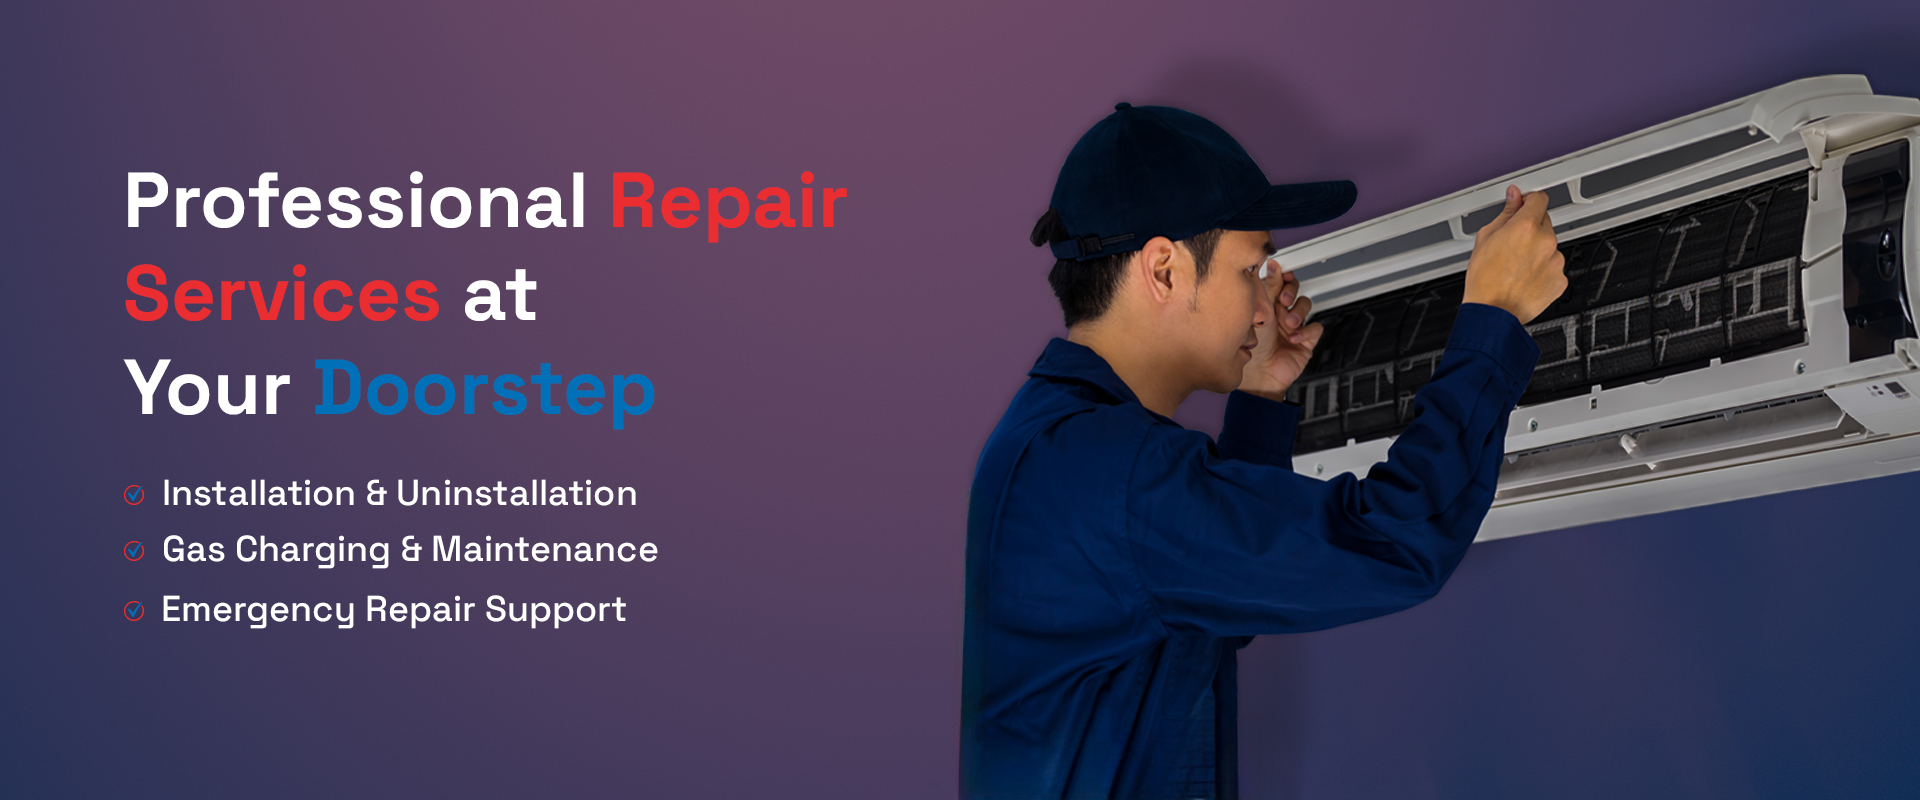
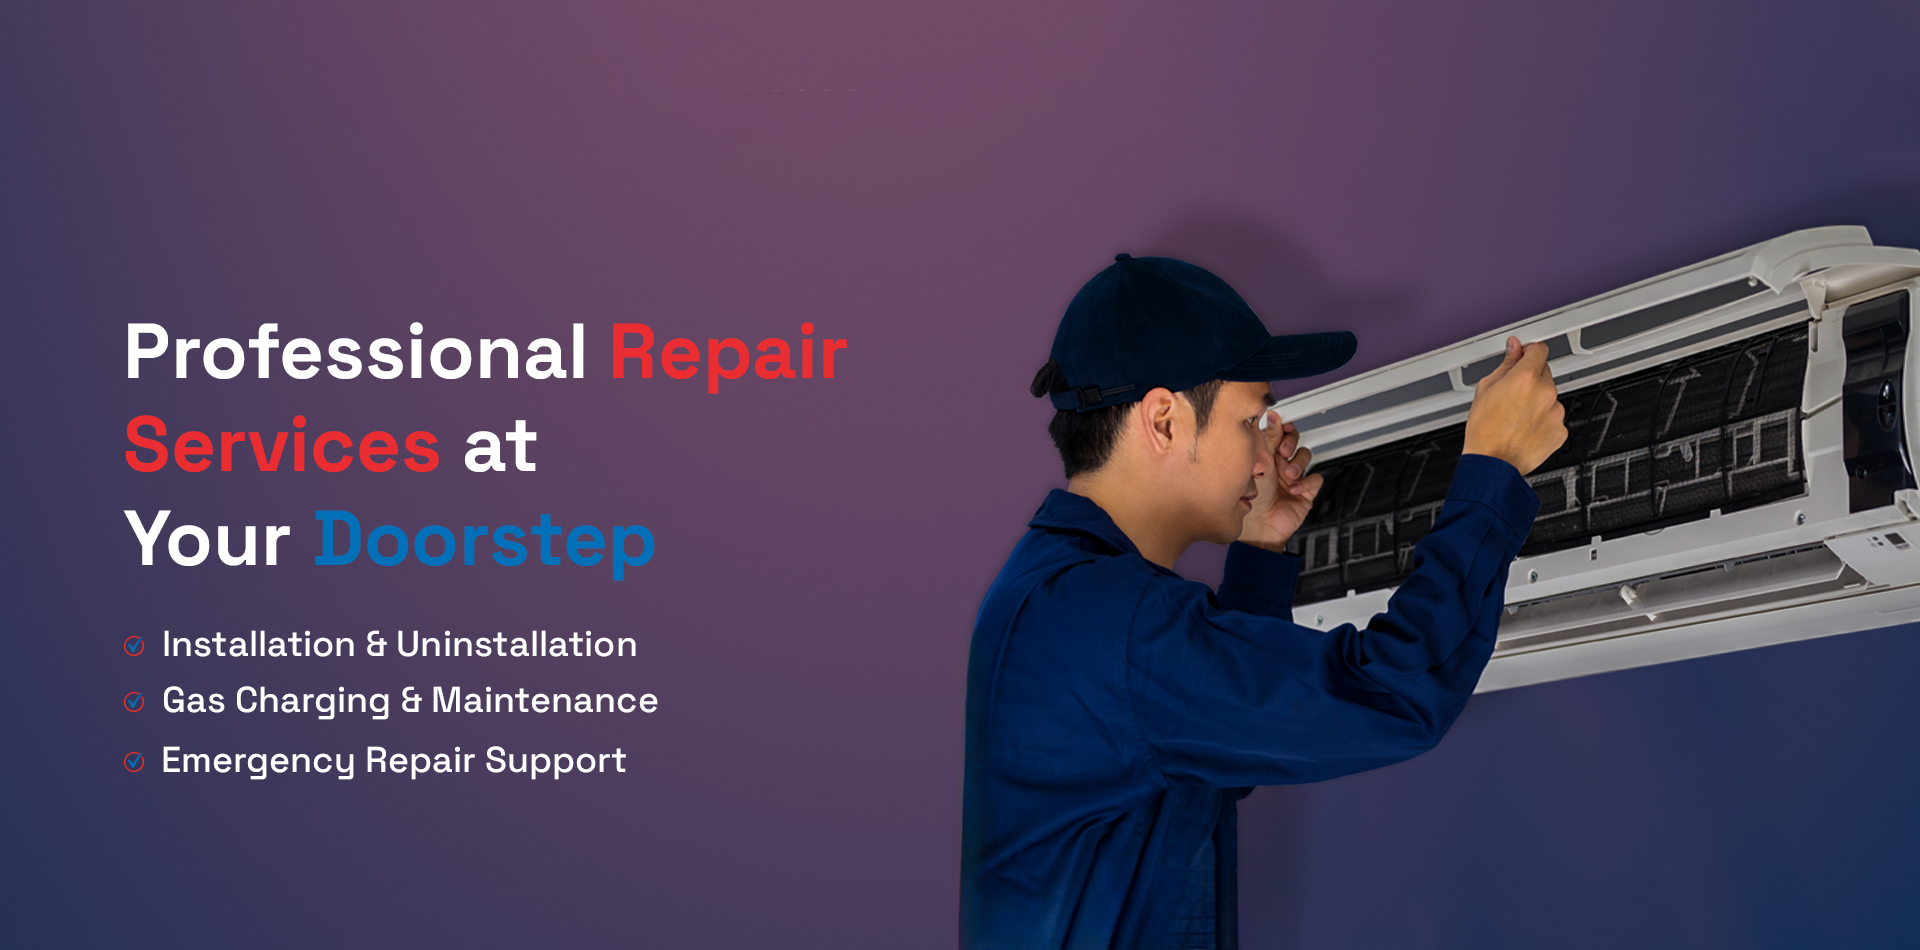
changes

diff --git a/index.html b/index.html
@@ -18,7 +18,7 @@
   <body>
 <!-- ===== TOP BAR ===== -->
 
-  <header>
+  <!-- <header>
         <div class="top-bar py-2">
             <div class="container-xl row mx-auto align-items-center a">
                 <div class="col-md-8 col-sm-12">
@@ -64,20 +64,55 @@
 
             </div>
         </nav>
-    </header>
+    </header> -->
+    <header class="position-absolute w-100 mt-3">
+  <nav class="navbar navbar-expand-lg bg-white rounded-4 shadow mx-auto px-4 py-3 header-nav">
+    
+    <!-- Logo -->
+    <a class="navbar-brand d-flex align-items-center" href="#">
+      <img src="image/logo.png" alt="heat" height="45" class="logo-img">
+    </a>
+
+    <!-- Mobile Toggle -->
+    <button class="navbar-toggler" type="button" data-bs-toggle="collapse"
+      data-bs-target="#mainNav" aria-controls="mainNav" aria-expanded="false">
+      <span class="navbar-toggler-icon"></span>
+    </button>
+
+    <!-- Nav Links -->
+    <div class="collapse navbar-collapse justify-content-center" id="mainNav">
+      <ul class="navbar-nav mb-2 mb-lg-0 gap-lg-4">
+        <li class="nav-item"><a class="nav-link" href="/">Home</a></li>
+        <li class="nav-item"><a class="nav-link" href="#about">About Us</a></li>
+        <li class="nav-item"><a class="nav-link" href="#services">Our Services</a></li>
+        <li class="nav-item"><a class="nav-link" href="#why-choose">Why Choose Us</a></li>
+        <li class="nav-item"><a class="nav-link" href="#contact">Contact</a></li>     
+      </ul>
+    </div>
+
+    <!-- Right buttons -->
+    <div class="d-flex align-items-center gap-3">      
+      <button type="button" class="btn btn-danger rounded-pill" data-bs-toggle="modal" data-bs-target="#exampleModal"> Get In Touch
+</button>
+
+    </div>
+
+  </nav>
+</header>
+
 
 <div id="carouselExampleIndicators" class="carousel slide">
   <div class="carousel-indicators">
     <button type="button" data-bs-target="#carouselExampleIndicators" data-bs-slide-to="0" class="active" aria-current="true" aria-label="Slide 1"></button>
     <button type="button" data-bs-target="#carouselExampleIndicators" data-bs-slide-to="1" aria-label="Slide 2"></button>
-    <button type="button" data-bs-target="#carouselExampleIndicators" data-bs-slide-to="2" aria-label="Slide 3"></button>
+   
   </div>
   <div class="carousel-inner">
     <div class="carousel-item active">
       <img src="image/Banner.jpg" class="d-block w-100" alt="...">
     </div>
     <div class="carousel-item">
-      <img src="image/Banner.jpg" class="d-block w-100" alt="...">
+      <img src="image/Banner-1.jpg" class="d-block w-100" alt="...">
     </div>
     <!-- <div class="carousel-item">
       <img src="..." class="d-block w-100" alt="...">
@@ -678,7 +713,7 @@ Katepwa Lake, Pasqua, Lipton, Dysart, Balcarres, Standing Buffalo &amp; surround
             <!-- Call Now Tab -->
             <div id="call-tab" class="tab-comtext active">
                 <h3>Call Now</h3>
-                <div class="phone-number">+1 306- 331-6838</div>
+                <div class="phone-number"><a href="tel:+13063316838">+1 306- 331-6838</a></div>
                 <p style="text-align: center; color: #1d1e22;">or fill out the contact form</p>
             </div>
             
@@ -777,6 +812,67 @@ Katepwa Lake, Pasqua, Lipton, Dysart, Balcarres, Standing Buffalo &amp; surround
             });
         });
     </script>
+<div class="modal fade" id="exampleModal" tabindex="-1" aria-labelledby="exampleModalLabel" aria-hidden="true">
+  <div class="modal-dialog modal-dialog-centered">
+    <div class="modal-content">
+
+      <div class="modal-header">
+        <h5 class="modal-title" id="exampleModalLabel">Get In Touch</h5>
+        <button type="button" class="btn-close" data-bs-dismiss="modal"></button>
+      </div>
+
+      <div class="modal-body">
+        <form id="contact_form" action="mail.php" method="post">
+          
+          <div class="row g-3">
+            <div class="col-md-6">
+              <label class="form-label">Name *</label>
+              <input type="text" name="form_name" class="form-control" required>
+            </div>
+            <div class="col-md-6">
+              <label class="form-label">Email *</label>
+              <input type="email" name="form_email" class="form-control" required>
+            </div>
+
+            <div class="col-md-6">
+              <label class="form-label">Subject *</label>
+              <input type="text" name="form_subject" class="form-control" required>
+            </div>
+            <div class="col-md-6">
+              <label class="form-label">Phone</label>
+              <input type="text" name="form_phone" class="form-control">
+            </div>
+
+            <div class="col-12">
+              <label class="form-label">Message *</label>
+              <textarea name="form_message" rows="4" class="form-control" required></textarea>
+            </div>
+
+            <div class="col-12">
+              <button type="submit" class="btn btn-danger w-100">
+                Send Message
+              </button>
+            </div>
+          </div>
+
+        </form>
+      </div>
+
+    </div>
+  </div>
+</div>
+<script>
+jQuery(window).scroll(function(){
+  if(jQuery(this).scrollTop() > 1){
+    jQuery('.position-absolute').addClass("sticky");
+  }
+  else{
+ jQuery('.position-absolute').removeClass("sticky");
+  }
+  })
+</script>
+
+
   
 
 <script src="https://cdn.jsdelivr.net/npm/@popperjs/core@2.11.8/dist/umd/popper.min.js"></script>

diff --git a/css/style.css b/css/style.css
@@ -172,6 +172,20 @@ nav.navbar.navbar-expand-lg.navbar-light.bg-light {
     padding: 30px 0 40px;
     background-color: #f8f5f1;
 }
+.header-nav {
+    max-width: 100%;
+    padding: 0 20px !important;
+    border-radius: 0px !important;
+}
+img.logo-img {
+    width: 110px !important;
+}
+.position-absolute {
+    position: relative !important;
+    z-index: 999;
+    top: 0 !important;
+    margin-top: 0 !important;
+}
 .about-home {
     padding: 60px 0 0px !important;
 }
@@ -1144,9 +1158,13 @@ p.mb-0 {
     transform: rotateY(
 180deg);
 }
+.text a {
+    color: #000;
+    text-decoration-line: none;
+}
 
         .container-form {
-            text-align: right;
+            text-align: center;
         }
         .comtext {
             text-align: left;
@@ -1156,26 +1174,32 @@ p.mb-0 {
             border-radius: 20px 0 0 20px;
             box-sizing: border-box;
         }
-        #wrap-form {
-            position: fixed;
-            right: 0;
-            top: 100px;
-            display: none;
-            z-index: 1000;
-        }
-   .open-call {
+     #wrap-form {
+    position: fixed;
+    right: 0;
+    bottom: 150px;
+    display: none;
+    z-index: 1000;
+}
+.container-form {
+    position: fixed;
+    right: 0;
+    transform: translateY(-50%);
+    z-index: 999;
+    bottom: 150px;
+}
+
+.open-call {
+    position: relative;
+    background: #ea2d31;
+    color: #fff;
+    border: none;
     padding: 15px 30px;
     font-size: 18px;
     cursor: pointer;
-    margin-top: 0;
-    background: #ea2d31;
-    color: white;
-    border: none;
-    border-radius: 5px;
-    transition: background 0.3s;
-    transform: rotate(90deg);
-    position: relative;
-    margin: 0 !important;
+    border-radius: 0px 0px 10px 10px;
+    transform: rotate(90deg) translateY(0%);
+    transform-origin: right top;
 }
         .open-call:hover {
             background: #006fb6;
@@ -1292,10 +1316,83 @@ p.mb-0 {
         .tab-comtext.active {
             display: block;
         }
-        .container-form {
-    text-align: center;
-    position: fixed;
-    right: 0;
-    bottom: 150px;
+
+        .header-nav {
+    max-width: 1300px;
+}
+
+.navbar-nav .nav-link {
+    font-weight: 500;
+    color: #111;
+}
+
+.navbar-nav .nav-link:hover {
+    color: #ea2d31;
+}
+.header-nav {
+    max-width: 1300px;
+    padding: 0px 20px !important;
+}
+
+/* Mobile fixes */
+@media (max-width: 991px) {
+    .header-nav {
+        border-radius: 16px;
+    }
+
+    .navbar-collapse {
+        margin-top: 15px;
+    }
+
+    .navbar-nav {
+        text-align: center;
+    }
+    .d-flex.align-items-center.gap-3 {
+    display: none !important;
+}
+
+
+    .navbar-nav .nav-link {
+        padding: 10px 0;
+    }
+}
+.position-absolute {
+    position: absolute;
     z-index: 999;
 }
+.modal .form-control, .modal .input-text {
+    height: 42px;
+    padding: 14px 30px;
+    outline: 0;
+    background-color: #f4f5f8;
+    border: 1px solid #f4f5f8;
+    color: #686a6f;
+    font-size: 0.9rem;
+    width: 100%;
+}
+.modal textarea.form-control {
+    height: 90px !important;
+}
+.rounded-pill:hover {   
+    background: #0070b8;
+    border: none;
+}
+.sticky {
+    position: fixed !important;
+    top: 0 !important;
+    transition: 0.2s cubic-bezier(0, 0.54, 0, 1.08) all;
+    max-width: 100%;
+    box-shadow: rgba(0, 0, 0, 0.15) 0px 5px 15px 0px;
+    background-color: #fff !important;
+    z-index: 999;
+    justify-self: anchor-center;
+    margin: 0px !important;
+}
+.sticky  .header-nav {
+    max-width: 1300px;
+    padding: 0px 20px !important;
+    border-radius: 0 !important;
+    background: #fff !important;
+    box-shadow: none !important;
+}
+   
